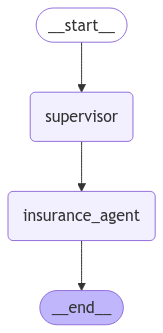
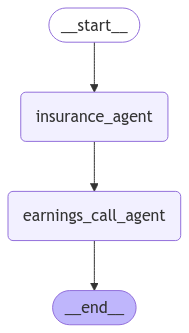
Add new agent

diff --git a/src/main.py b/src/main.py
@@ -8,30 +8,27 @@ from langgraph.graph import END, START, Graph, StateGraph
 
 from agents.agent_state import AgentState
 from agents.document_processor import DocumentProcessor
-from agents.insurance_analysis import InsuranceAnalysisAgent
+from agents.earnings_call_agent import EarningsCallAgent
+from agents.insurance_analysis_agent import InsuranceAnalysisAgent
+from agents.simple_store import SimpleStore
 from agents.vector_store import VectorStore
 
 logging.basicConfig(level=logging.INFO)
 logger = logging.getLogger(__name__)
 
 
-def supervisor_function(state: AgentState) -> AgentState:
-    logger.info(f"Running supervisor with input state: {state}")
-    state["history"].append("supervisor")
-    return state
-
-
-def create_agent_graph(vector_store: VectorStore) -> Graph:
+def create_agent_graph(vector_store: VectorStore, simple_store: SimpleStore) -> Graph:
     analysis_agent = InsuranceAnalysisAgent(vector_store)
+    earnings_call_agent = EarningsCallAgent(simple_store)
 
     graph = StateGraph(AgentState)
 
-    graph.add_node("supervisor", supervisor_function)
     graph.add_node("insurance_agent", analysis_agent.run)
+    graph.add_node("earnings_call_agent", earnings_call_agent.run)
 
-    graph.add_edge(START, "supervisor")
-    graph.add_edge("supervisor", "insurance_agent")
-    graph.add_edge("insurance_agent", END)
+    graph.add_edge(START, "insurance_agent")
+    graph.add_edge("insurance_agent", "earnings_call_agent")
+    graph.add_edge("earnings_call_agent", END)
 
     return graph.compile()
 
@@ -60,6 +57,7 @@ def main():
     # Initialize dependencies
     vector_store = VectorStore()
     doc_processor = DocumentProcessor(vector_store)
+    simple_store = SimpleStore()
 
     # Load documents, if needed
     # Note that provided documents have extension XLS but are actually HTML
@@ -70,11 +68,13 @@ def main():
         doc_processor.process(source_file_path)
 
     # Create the agent graph
-    graph = create_agent_graph(vector_store)
+    graph = create_agent_graph(vector_store, simple_store)
     graph.get_graph().draw_mermaid_png(output_file_path="graph_chart.png")
 
     # Initialize the state
-    initial_state = AgentState(query=args.query, output=None, history=[])
+    initial_state = AgentState(
+        query=args.query, market_analysis=None, earnings_call_report=None, history=[]
+    )
 
     # Run the graph
     for idx, state in enumerate(graph.stream(initial_state)):
@@ -83,7 +83,7 @@ def main():
     logger.info("Analysis complete!")
 
     print(f"\n\nQuery: {args.query}")
-    print(f"\n\nAnswer: {state["insurance_agent"]["output"]}")
+    print(f"\n\nAnswer: {state["earnings_call_agent"]["earnings_call_report"]}")
 
 
 if __name__ == "__main__":

diff --git a/src/agents/earnings_call_data.py b/src/agents/earnings_call_data.py
@@ -1,0 +1,47 @@
+# Fake data for the purpose of illustrating historical company data
+
+earnings_call_01 = """* Date: October 25, 2024
+* Company: AutoGuard Insurance Inc.
+* Reporting Period: Q3 2024
+* Key Highlights:
+	+ Net income: $180 million, up 15% from Q3 2023
+	+ Revenue: $1.4 billion, up 12% from Q3 2023
+	+ Combined ratio: 93.5%, down from 95.1% in Q3 2023
+	+ Policyholders' surplus: $3.1 billion, up 18% from Q3 2023
+* Guidance:
+	+ Full-year 2024 net income expected to be $720-$780 million
+	+ Full-year 2024 revenue expected to be $5.6-$6.0 billion
+* Notable Comments from CEO:
+	+ "We're pleased with our Q3 results, which reflect our continued focus on underwriting discipline and expense management."
+	+ "We're seeing strong demand for our usage-based insurance products, particularly among younger drivers."
+"""
+
+earnings_call_02 = """* Date: November 14, 2024
+* Company: AutoGuard Insurance Inc.
+* Reporting Period: Q4 2024 (preliminary results)
+* Key Highlights:
+	+ Net income: $200 million, up 20% from Q4 2023
+	+ Revenue: $1.6 billion, up 15% from Q4 2023
+	+ Combined ratio: 92.2%, down from 94.5% in Q4 2023
+	+ Policyholders' surplus: $3.3 billion, up 20% from Q4 2023
+* Guidance:
+	+ Full-year 2025 net income expected to be $800-$850 million
+	+ Full-year 2025 revenue expected to be $6.2-$6.7 billion
+* Notable Comments from CEO:
+	+ "Our preliminary Q4 results are strong, driven by continued growth in our personal auto line and improving profitability in our commercial auto line."
+	+ "We're well-positioned for 2025, with a strong balance sheet and a robust pipeline of new business opportunities."
+"""
+
+earnings_call_03 = """* Date: December 12, 2024
+* Company: AutoGuard Insurance Inc.
+* Reporting Period: N/A (update on strategic initiatives)
+* Key Highlights:
+	+ Update on digital transformation initiative: 75% of customers now interact with the company through digital channels
+	+ Update on data analytics initiative: 20% reduction in claims frequency and severity through use of advanced analytics
+	+ Update on expansion into new markets: 10 new states entered in 2024, with plans to enter 5 additional states in 2025
+* Guidance:
+	+ No change to previous guidance
+* Notable Comments from CEO:
+	+ "We're making significant progress on our strategic initiatives, which are driving growth, improving profitability, and enhancing our competitive position."
+	+ "We're committed to continuing to invest in digital transformation, data analytics, and expansion into new markets to drive long-term success."
+"""

diff --git a/src/agents/earnings_call_agent.py b/src/agents/earnings_call_agent.py
@@ -7,18 +7,18 @@ from langchain_openai import ChatOpenAI
 
 from src.agents.agent_state import AgentState
 from src.agents.prompts import (
-    insurance_agent_system_prompt,
-    insurance_agent_user_prompt,
+    earnings_call_agent_system_prompt,
+    earnings_call_agent_user_prompt,
 )
-from src.agents.vector_store import VectorStore
+from src.agents.simple_store import SimpleStore
 
 logger = logging.getLogger(__name__)
 
 
-class InsuranceAnalysisAgent:
-    def __init__(self, vector_store: VectorStore):
-        self.vector_store = vector_store
-        self.llm = ChatOpenAI(temperature=0)
+class EarningsCallAgent:
+    def __init__(self, earning_calls_store: SimpleStore):
+        self.earnings_call_store = earning_calls_store
+        self.llm = ChatOpenAI(temperature=0.8)
 
         # Initialize tools
         self.tools = self._create_tools()
@@ -26,8 +26,8 @@ class InsuranceAnalysisAgent:
         # Initialize agent
         prompt_template = ChatPromptTemplate.from_messages(
             [
-                ("system", insurance_agent_system_prompt),
-                ("human", insurance_agent_user_prompt),
+                ("system", earnings_call_agent_system_prompt),
+                ("human", earnings_call_agent_user_prompt),
                 MessagesPlaceholder("agent_scratchpad"),
             ]
         )
@@ -41,17 +41,19 @@ class InsuranceAnalysisAgent:
     def _create_tools(self) -> list[Tool]:
         tools = [
             Tool(
-                name="search_documents",
-                func=self.vector_store.similarity_search,
-                description="Search through insurance documents",
+                name="fetch_previous_earnings_calls",
+                func=self.earnings_call_store.get_records,
+                description="Find relevant earnings call data from previous sessions",
             ),
         ]
         return tools
 
     def run(self, state: AgentState) -> AgentState:
-        logger.info(f"Running insurance agent with input state: {state}")
-        output = self.agent_executor.invoke({"query": state["query"]})
+        logger.info(f"Running earnings call agent with input state: {state}")
+        output = self.agent_executor.invoke(
+            {"market_analysis": state["market_analysis"]}
+        )
         logger.debug(f"Got output: {output}")
         state["history"].append("insurance_agent")
-        state["market_analysis"] = output["output"]
+        state["earnings_call_report"] = output["output"]
         return state

diff --git a/src/agents/prompts.py b/src/agents/prompts.py
@@ -5,3 +5,12 @@ Ground your answers on the provided documents. Be concise and informative, witho
 insurance_agent_user_prompt = """Considering the provided documents, answer the following user query:
 {query}
 """
+
+earnings_call_agent_system_prompt = """You are a financial expert, who communicates in clear, technical terms to a list of investors.
+"""
+
+earnings_call_agent_user_prompt = """Based on the following findings from a market analyst, provide a comprehensive earnings call report.
+{market_analysis}
+
+Write your earnings call report now, considering the previous exercises in your report and highlighting the market analysis.
+"""

diff --git a/src/agents/simple_store.py b/src/agents/simple_store.py
@@ -1,0 +1,22 @@
+import logging
+
+from src.agents.earnings_call_data import (
+    earnings_call_01,
+    earnings_call_02,
+    earnings_call_03,
+)
+
+logger = logging.getLogger(__name__)
+
+
+class SimpleStore:
+    reports: list[str]
+
+    def __init__(self):
+        # Hardcoded from static data for illustrative purposes
+        self.reports = [earnings_call_01, earnings_call_02, earnings_call_03]
+
+    def get_records(self, context: str) -> list[str]:
+        logger.info(f"Retrieving simple store records for context: {context}")
+        # Return all in this toy example
+        return self.reports

diff --git a/src/agents/agent_state.py b/src/agents/agent_state.py
@@ -3,5 +3,6 @@ from typing_extensions import TypedDict
 
 class AgentState(TypedDict):
     query: str
-    output: str | None
+    market_analysis: str | None
+    earnings_call_report: str | None
     history: list[str]
